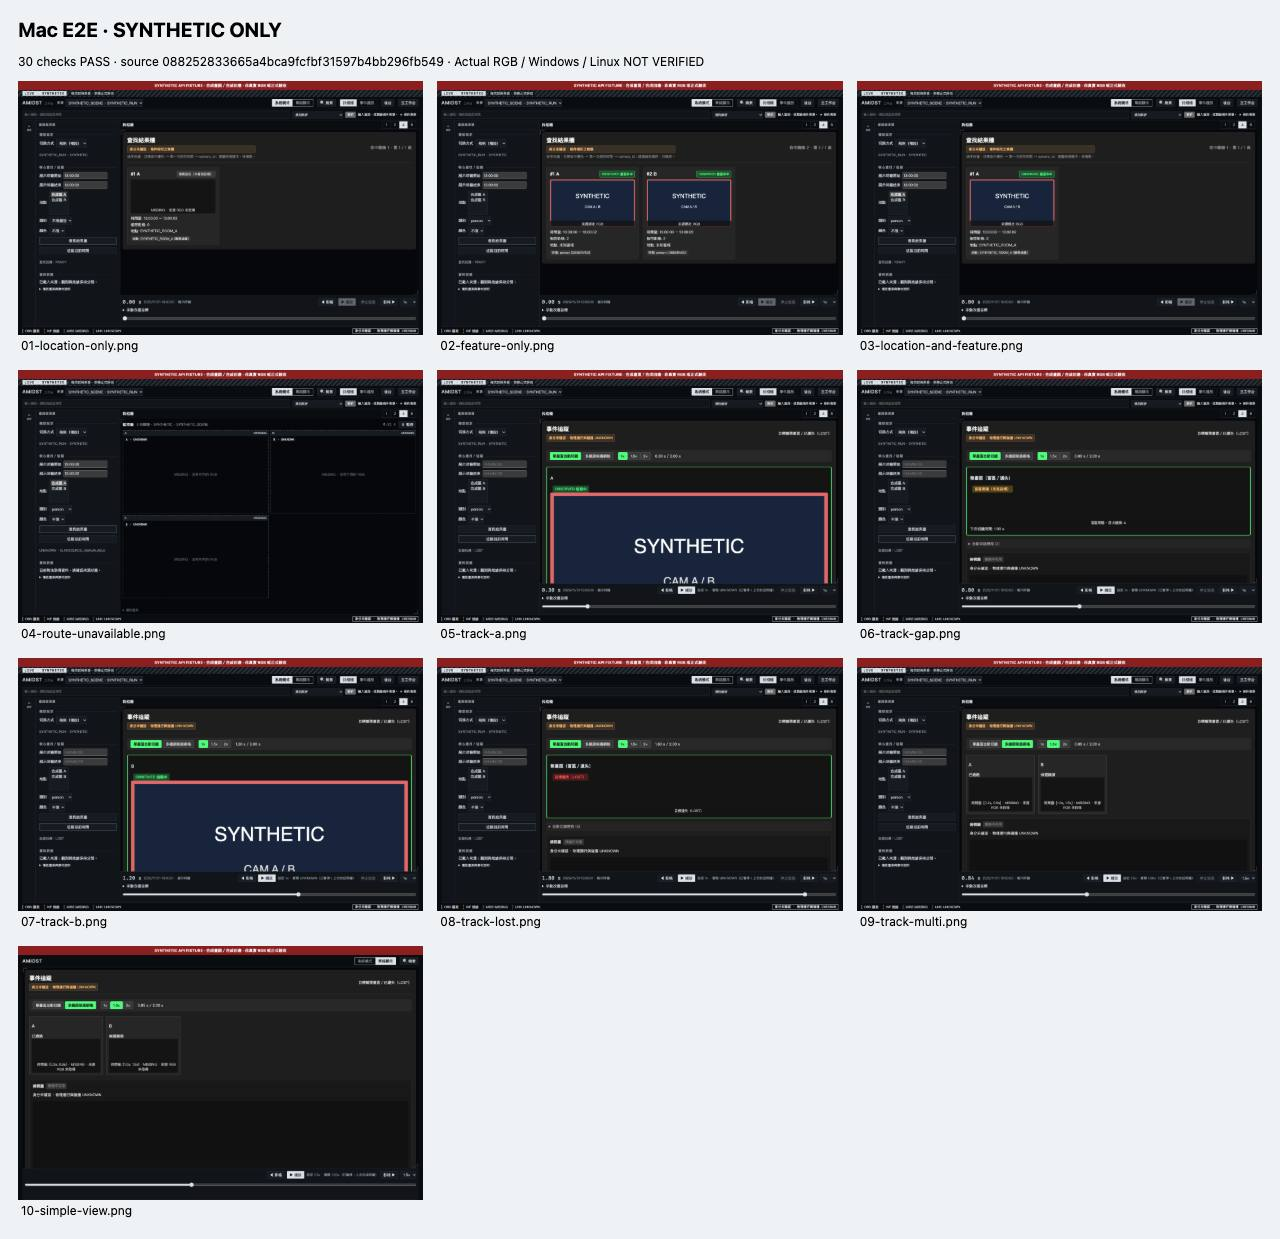
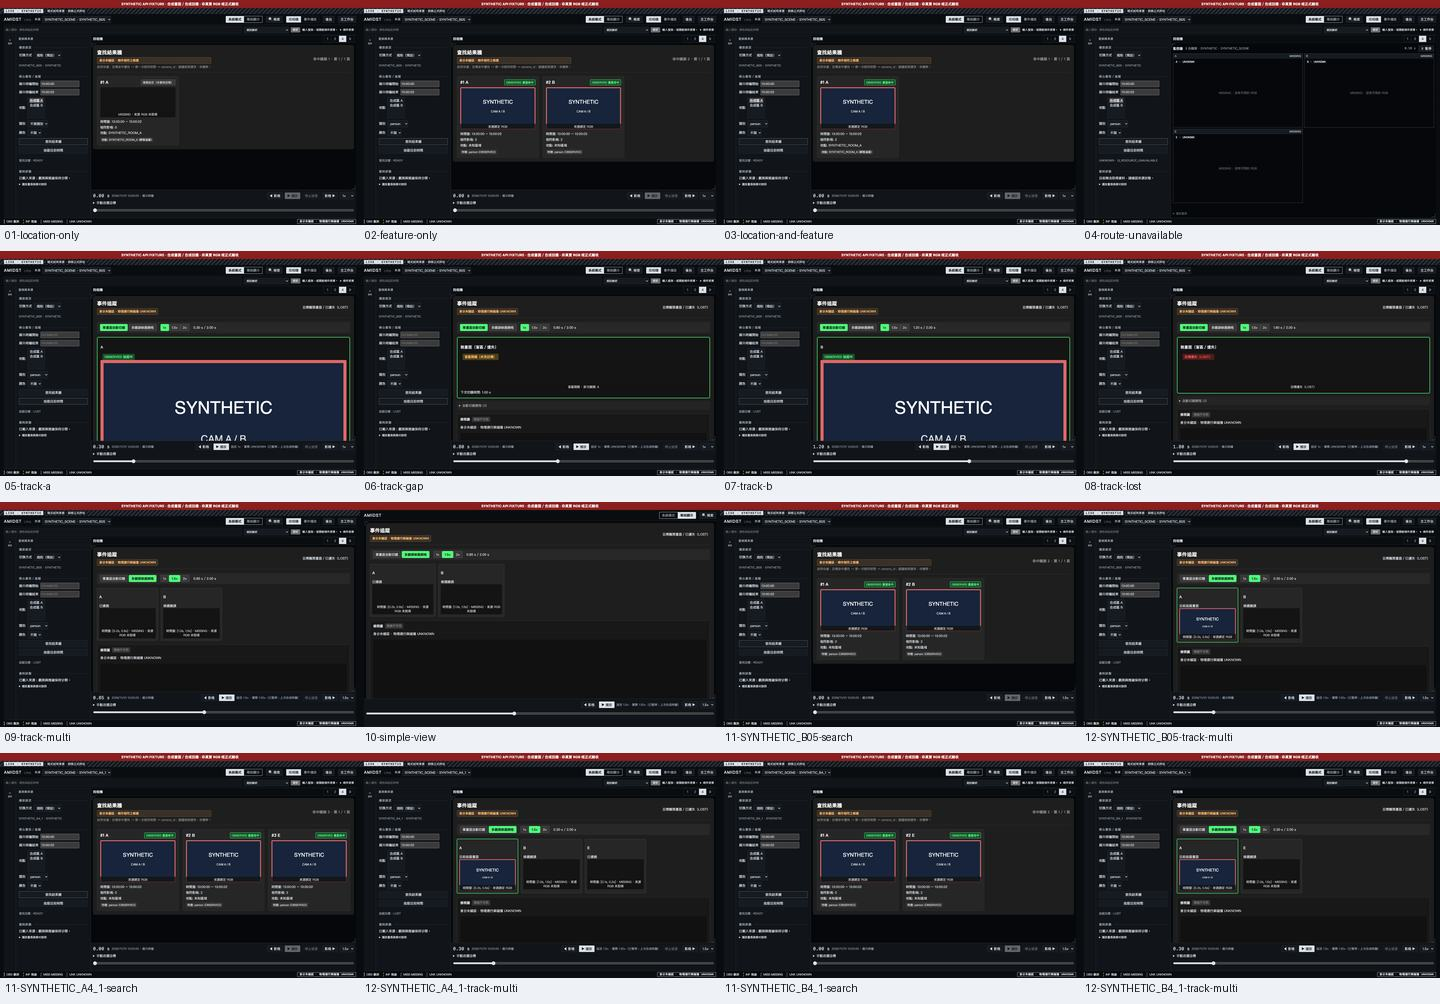
docs(459): attach three-event Mac browser evidence

diff --git a/docs/operations/D131_459_MAC_CORE_PREVIEW.md b/docs/operations/D131_459_MAC_CORE_PREVIEW.md
@@ -16,8 +16,8 @@ Open `http://127.0.0.1:8765/workbench-v2/`. In the left core controls, search wi
 ## Actual output
 
 - Sol prepared the original fixture/Playwright scaffolding; root finished browser failures and source-bound publication. Exact root model/effort UNKNOWN.
-- Mac Google Chrome E2E: 30 checks PASS on the above #452 head, 10 PNG screenshots. Explicit visible-state assertions supplement DOM counts. The older DOM-only gate missed monitor-wall occlusion and unsupported 1.5x timing; those bugs were repaired on original PR #452 and the browser test rerun.
-- Coverage: normal control validation, location/feature/both requests, visible results, unavailable route, different overlapping requests/stale response, source-clock now, A/GAP/B/LOST, real automatic synthetic timeline advancement, single/multi, 1.5x configuration, shared speed agreement, simple/system view and no page errors.
+- Mac Google Chrome E2E: 49 checks PASS on the above #452 head, 16 PNG screenshots. Explicit visible-state assertions supplement DOM counts. The older DOM-only gate missed monitor-wall occlusion and unsupported 1.5x timing; those bugs were repaired on original PR #452 and the browser test rerun.
+- Coverage: real source-menu selection for three independent SYNTHETIC_B05 / SYNTHETIC_A4_1 / SYNTHETIC_B4_1 scopes (two/three/two cameras), cleared old results and request/run/clock binding for each; normal control validation, location/feature/both requests, visible results, unavailable route, different overlapping requests/stale response, source-clock now, A/GAP/B/LOST, real automatic synthetic timeline advancement, single/multi, 1.5x configuration, shared speed agreement, simple/system view and no page errors.
 - Screenshot hashes: `docs/engineering/D131_459_MAC_E2E_RECEIPT.json`. Full PNGs are LOCAL; the small JPEG contact sheet is a curated synthetic review receipt, not original media. No large PNG set is committed.
 - Windows, Linux, CI artifact upload, actual RGB, actual backend runtime and physical screen fps: NOT_RUN/NOT_VERIFIED. This delivery follows the user's narrowed Mac-only instruction; it does not claim the original cross-platform gate complete.
 - The fake source can demonstrate a missing media card. This is labelled MISSING; no synthetic fallback is used by the real API client outside the explicit fixture server.
